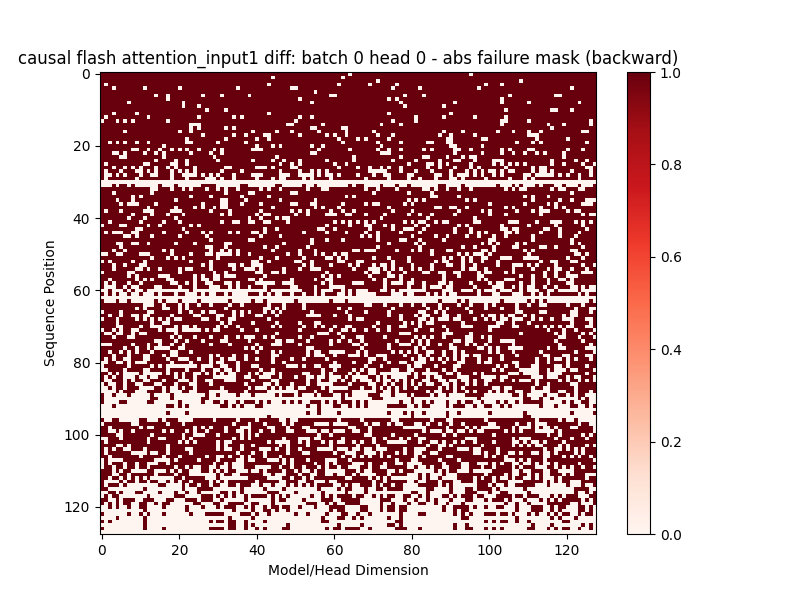
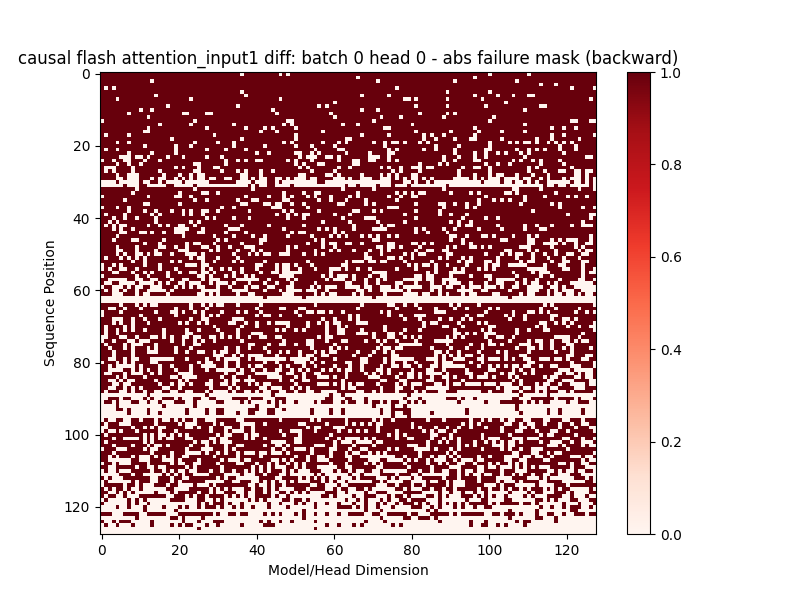
tried to mess w scaling but that was a dead end. what does it mean for whether the mask gets loaded in at all or applied to everything not mattering much to the error rate mean despite values of this shape? somehow entries w more contribution by the mask are more correct and yet it doesn't matter wh

Changed region(s): [[0.125, 0.12, 0.75, 0.9], [0.375, 0.15, 0.4375, 0.18], [0.3438, 0.12, 0.375, 0.15]]

diff --git a/tritongrad/kernels/flash_attention.py b/tritongrad/kernels/flash_attention.py
@@ -380,8 +380,17 @@ def _attn_backward_KV(
     MASK: tl.constexpr
 ):
     """
-    this kernel will be looking at a specific chunk of K & V and iterating through
-    rows of Q to calculate that chunk of dLdK and dLdV
+    this kernel will be looking at a specific chunk of K & V , where we call
+    the sequence length of K & V the columns of our NxN attention matrix,
+    and iterating through rows of Q's sequence length to calculate that 
+    chunk of dLdK and dLdV
+                    N of K & V
+               |    |   |   |   |
+               |    |   |   |   |
+    N of Q     |    |   |   |   |
+               |    |   |   |   |
+              \|/  \|/ \|/ \|/ \|/
+    arrows indicate direction of our for loop; each arrow is a different PID
     """
     offsets_ROW = start_ROW + tl.arange(0, BLOCK_SIZE_ROW)
     offsets_COL = start_COL + tl.arange(0, BLOCK_SIZE_COL)
@@ -395,20 +404,22 @@ def _attn_backward_KV(
         # we load M before computing S to reduce pipeline stall (and dLdO before computing dLdV)
         # meaning the Triton compiler can have an easier time doing the loading of M
         # and the dot product of K and QT simultaneously. in general you should load a bunch
-        # of stuff then calc a bunch of stuff rather than loading right before you calc
+        # of stuff then calc a bunch of stuff rather than flipping b/w loads and calcs
         Q_T = tl.load(Q_T_ptrs) # shape (D, BLOCK_SIZE_ROW)
         M = tl.load(M_ptr + offsets_ROW) # shape (BLOCK_SIZE_ROW)
         dLdO = tl.load(dLdO_ptrs) # shape (BLOCK_SIZE_ROW, D)
         Delta = tl.load(Delta_ptr + offsets_ROW) # shape (BLOCK_SIZE_ROW)
+        # ^ notice the order i load these in is based on the order we use them below
 
         # calculate transpose of S and P matrices
         S_T = tl.dot(K, Q_T) # shape (BLOCK_SIZE_COL, BLOCK_SIZE_ROW)
-            # no scale here because the operation is associative & cheaper to do later;
-            # doing it here would be to do it for EVERY TIME we accumulate into dLdK
+            # no scale here because the operation is associative so we did it earlier on K
         P_T = tl.exp2(S_T - M[None, :]) # shape (BLOCK_SIZE_COL, BLOCK_SIZE_ROW)
+            # this derivative actually requires an extra *ln(2) which we do below at dLdS_T
 
         if MASK: # if we're on the block-diagonal
-            mask = (offsets_ROW[None, :] >= offsets_COL[:, None]) # (BLOCK_SIZE_ROW, BLOCK_SIZE_COL)
+            # weird shape here with columns on the rows and rows on the columns bc of transpose
+            mask = (offsets_COL[:, None] <= offsets_ROW[None, :]) # (BLOCK_SIZE_COL, BLOCK_SIZE_ROW)
             P_T = tl.where(mask, P_T, 0.)
 
         # compute dLdV
@@ -447,6 +458,13 @@ def _attn_backward_Q(
     not in terms of the (B, H, N, D) shaped matrices but rather the (B, H, N, N) shaped
     attention logits, where the first N are split up by "BLOCK_SIZE_ROW" and the second N
     is split up by "BLOCK_SIZE_COL"
+                    N of K & V
+               ------------------->
+               ------------------->
+    N of Q     ------------------->
+               ------------------->
+               ------------------->
+    arrows indicate direction of our for loop; each arrow is a different PID
     """
     offsets_ROW = start_ROW + tl.arange(0, BLOCK_SIZE_ROW)
     offsets_COL = start_COL + tl.arange(0, BLOCK_SIZE_COL)
@@ -464,14 +482,16 @@ def _attn_backward_Q(
         V_T = tl.load(V_T_ptrs) # shape (BLOCK_SIZE_COL, D)
 
         S = tl.dot(Q, K_T) # shape (BLOCK_SIZE_ROW, BLOCK_SIZE_COL)
-        P = tl.exp2(S - M)
+            # no scale here because the operation is associative so we did it earlier on Q
+        P = tl.exp2(S - M) # shape (BLOCK_SIZE_ROW, BLOCK_SIZE_COL)
 
         if MASK: # if we're on the block-diagonal
-            mask = (offsets_ROW[:, None] >= offsets_COL[None, :])
-            P = tl.where(mask, P, 0.)
+            mask = (offsets_ROW[:, None] >= offsets_COL[None, :]) # (BLOCK_SIZE_ROW, BLOCK_SIZE_COL)
+            # setting lower-triangular values to zero since the gradient is upper-triangular
+            P = tl.where(mask, P, 0.) # shape (BLOCK_SIZE_ROW, BLOCK_SIZE_COL)
 
         # calc dLdP and dLdS to get dLdQ
-        dLdP = tl.dot(dLdO, V_T)
+        dLdP = tl.dot(dLdO, V_T) # shape (BLOCK_SIZE_ROW, BLOCK_SIZE_COL)
         dLdS = P * (dLdP - Delta[:, None]) * ln2
         # ^this line is equivalent to:
         #weighted_dLdP = tl.sum(dLdP * P, axis=1)  # row-sum over keys
@@ -532,19 +552,24 @@ def attn_backward(
     M_ptr += batch_head_jump
     Delta_ptr += batch_head_jump
 
+    # BLOCK_SIZE_MACRO must be a multiple of BLOCK_SIZE_MICRO
+    # because we use them to determine num_steps and don't want a remainder
+    tl.static_assert(BLOCK_SIZE_MACRO % BLOCK_SIZE_MICRO == 0)
+
     ### STAGE 1: First we'll do dLdK and dLdV
     # in the fwd loop we held a block of Q in SRAM and iterated through K & V; here we'll do the opposite
+
+    # ROW and COL refer to the N dimension of Q and K/V respectively
+    # for stage 1 each PID will look at BLOCK_SIZE_MACRO tokens of K & V and there will 
+    #  be an inner for-loop iterating over BLOCK_SIZE_MICRO tokens of Q at a time
     BLOCK_SIZE_ROW_1: tl.constexpr = BLOCK_SIZE_MICRO
     BLOCK_SIZE_COL_1: tl.constexpr = BLOCK_SIZE_MACRO
 
     # first we'l do the gradients along the block diagonal since they get treated differently
-    # in that they have an triangular causal mask
+    #  in that they have an triangular causal mask
     pid = tl.program_id(0)
     start_COL = pid * BLOCK_SIZE_COL_1
-    start_ROW = start_COL # remember both rows & cols of length N in the NxN attention logits
-    # BLOCK_SIZE_COL_1 must be a multiple of BLOCK_SIZE_ROW_1
-    tl.static_assert(BLOCK_SIZE_COL_1 % BLOCK_SIZE_ROW_1 == 0)
-    # because we use them to determine num_steps and don't want a remainder
+    start_ROW = start_COL
     num_steps = BLOCK_SIZE_COL_1 // BLOCK_SIZE_ROW_1
     
     # load K & V
@@ -552,10 +577,14 @@ def attn_backward(
     offsets_D = tl.arange(0, D)
     KV_offsets = offsets_COL_1[:, None] * stride_N + offsets_D[None, :] * stride_D
     K_block = tl.load(K_ptr + KV_offsets) # shape (BLOCK_SIZE_COL_1, D)
+    # pre-scaling K allows us to do the multiplication once here as opposed to
+    #  num_steps times inside _attn_backward_KV
+    # we also scale by rln2 to account for the derivative of tl.exp2() and do it
+    #  here instead of inside _attn_backward_KV for the same reason
     K_block *= scale * rln2
     V_block = tl.load(V_ptr + KV_offsets) # shape (BLOCK_SIZE_COL_1, D)
 
-    # accumulate the gradients into these
+    # we'll accumulate the gradients into these
     dLdK_block = tl.zeros([BLOCK_SIZE_COL_1, D], dtype=tl.float32)
     dLdV_block = tl.zeros([BLOCK_SIZE_COL_1, D], dtype=tl.float32)
 
@@ -576,8 +605,9 @@ def attn_backward(
     # next we'll do all the blocks that don't need the triangular mask on the block-diagonal.
     # this moves us forward to get off of the block-diagonal
     start_ROW += BLOCK_SIZE_COL_1
+        # start_COL doesn't change since that's determined by our PID
     # then we calculate how many blocks need to be done
-    num_steps = (N - start_ROW) // (BLOCK_SIZE_ROW_1)
+    num_steps = (N - start_ROW) // BLOCK_SIZE_ROW_1
         # TODO use a ceiling above N since N isn't forced to be a multiple of 128
 
     # compute dLdK and dLdV for non-masked blocks
@@ -594,8 +624,7 @@ def attn_backward(
         MASK=False ###
     )
 
-    # we can scale here instead of at the K@Q_T because doing it here only requires one flop per entry
-    # whereas doing it there would be one flop for every time accumulation happens (so num_steps times)
+    # scale since we didn't do it inside _attn_backward_KV to save flops
     dLdK *= scale * rln2
     # write back dLdK and dLdV
     tl.store(dLdK_ptr + KV_offsets, dLdK)
@@ -603,6 +632,10 @@ def attn_backward(
 
     ### STAGE 2: Now we do dLdQ
     # in this part, like the forward pass we look at a specific block of Q & iterate through K & V
+
+    # ROW and COL refer to the N dimension of Q and K/V respectively
+    # for stage 1 each PID will look at BLOCK_SIZE_MACRO tokens of K & V
+    # and there will be an inner for loop iterating over BLOCK_SIZE_MICRO tokens of Q
     BLOCK_SIZE_ROW_2: tl.constexpr = BLOCK_SIZE_MACRO
     BLOCK_SIZE_COL_2: tl.constexpr = BLOCK_SIZE_MICRO
 
